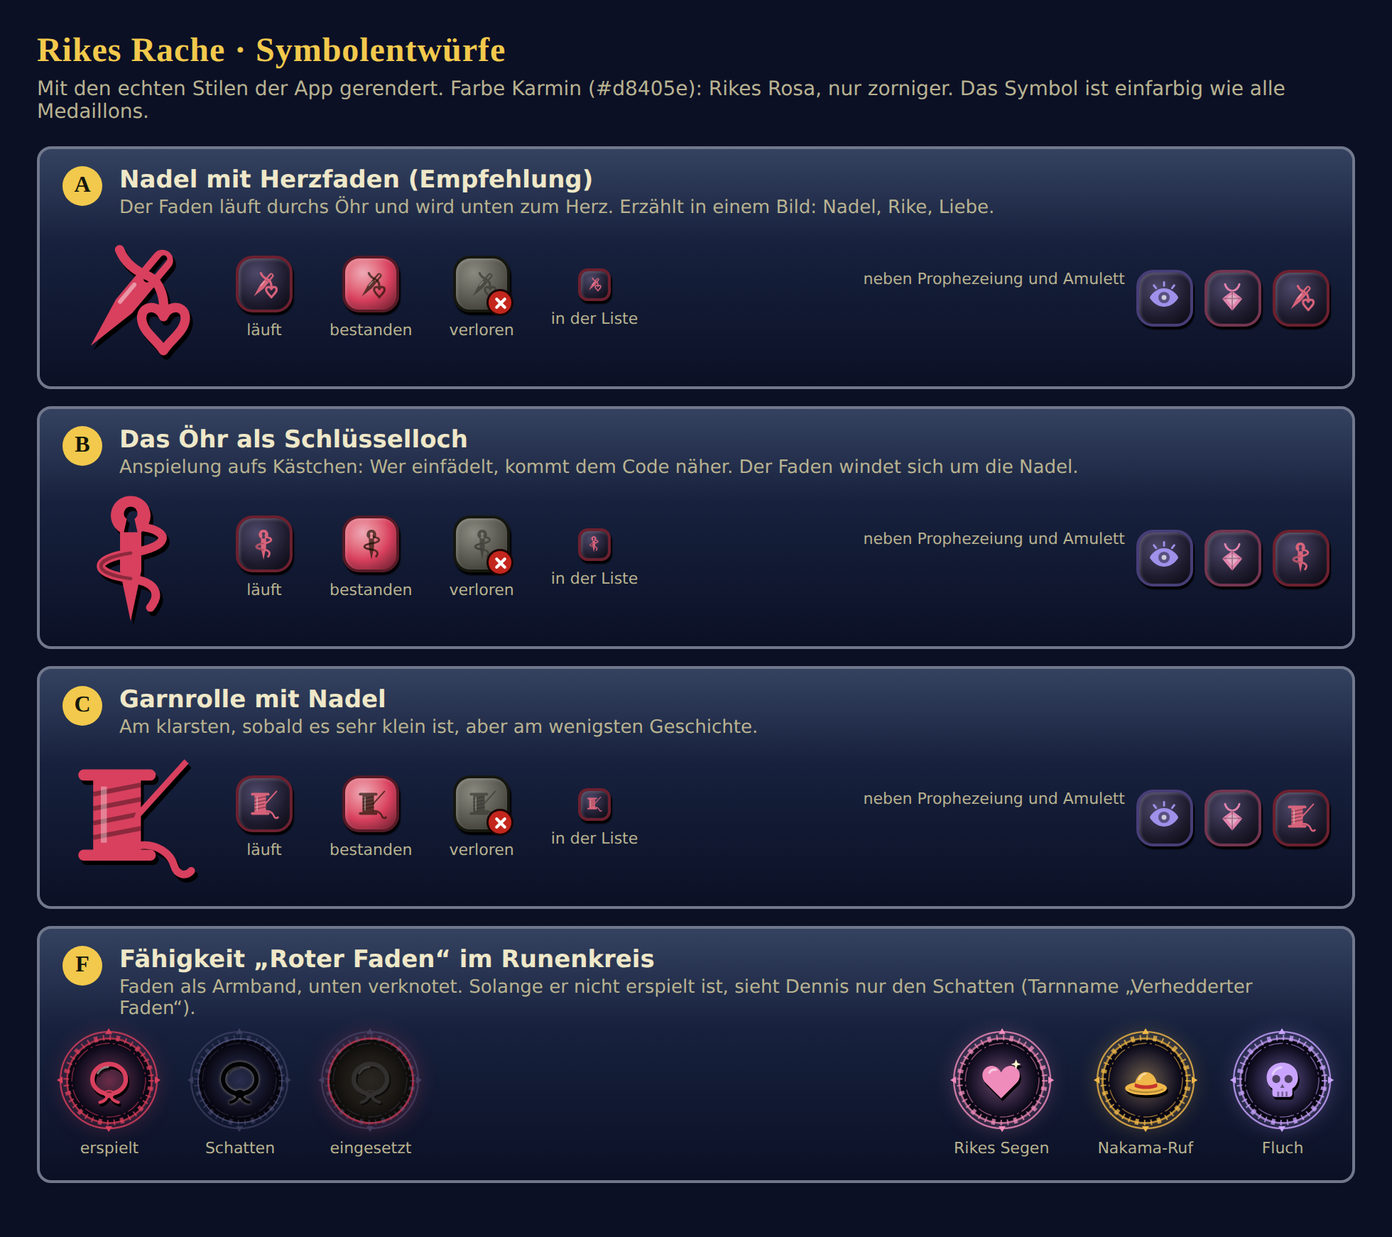
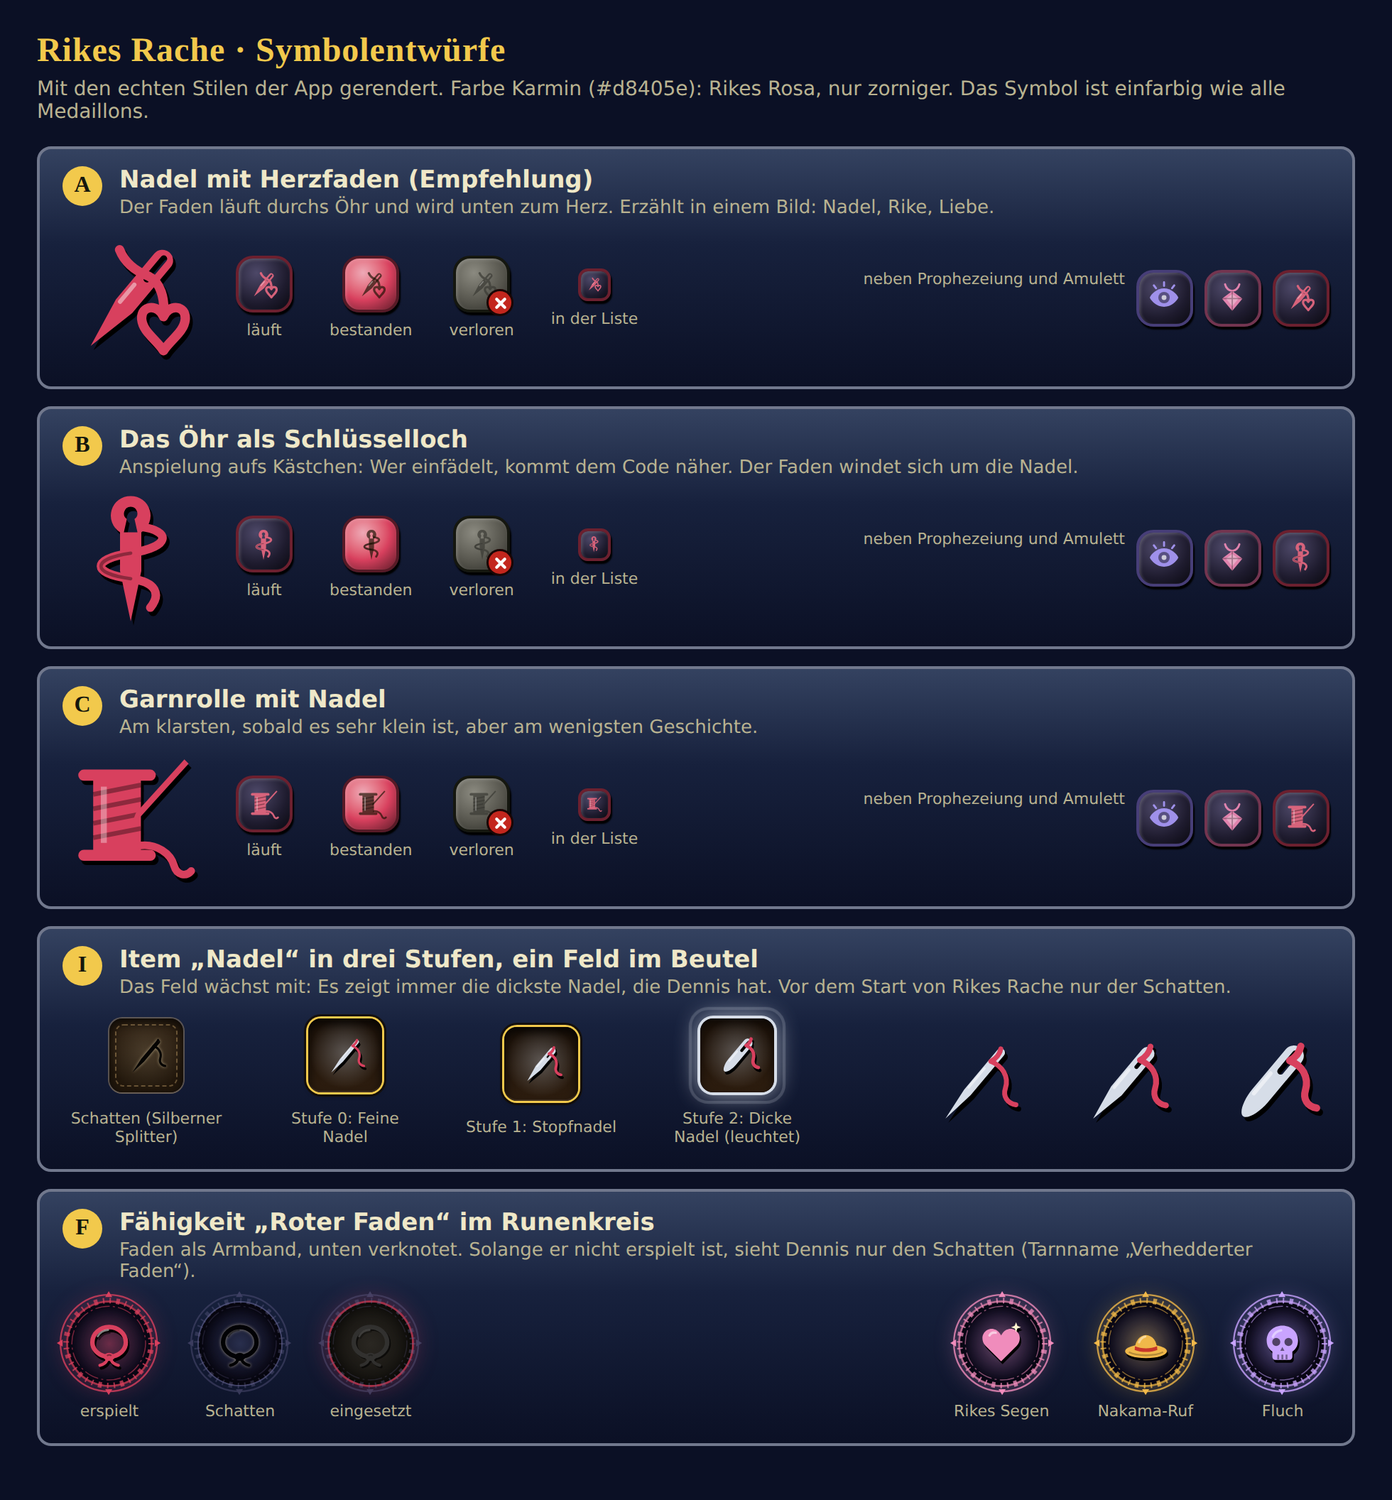
Rikes Rache: Name und Symbol A entschieden, Nadel als Item in drei Stufen
Feine Nadel mit dem Start, Stopfnadel aus dem Wirbel der Götter, dicke Nadel
vom Deku-Baum. Ein Feld im Beutel, die dickste zählt. Symbole der drei Stufen
in entwuerfe/rikes-rache/. Noch nicht gebaut.

Claude-Session: https://claude.ai/code/session_016MoboqD67wRk2b1KC5fNee

diff --git a/entwuerfe/rikes-rache/symbole.svg.html b/entwuerfe/rikes-rache/symbole.svg.html
@@ -1,4 +1,4 @@
-<!-- Rikes Rache, Symbolentwürfe vom 29.09. (noch nicht in der App). Zum Einbauen in den Sprite-Block von app/index.html kopieren. Vorschau: symbole.png -->
+<!-- Rikes Rache, Symbolentwürfe vom 29.09. (noch nicht in der App). Entschieden: A (i-nadel) als Quest-Symbol. Zum Einbauen in den Sprite-Block von app/index.html kopieren. Vorschau: symbole.png -->
     <!-- Rikes Rache (Entwurf 29.09.): Quest-Symbol A, Nadel mit Faden, der unten ein Herz bildet -->
     <symbol id="i-nadel" viewBox="0 0 32 32">
       <g transform="rotate(40 16 16)">
@@ -28,4 +28,26 @@
       <ellipse cx="16" cy="25" rx="3.6" ry="2.7" fill="currentColor"/>
       <path d="M14.6 24.2c1-.8 2-.8 2.9 0" fill="none" stroke="rgba(0,0,0,.4)" stroke-width="1"/>
       <path d="M14.6 27.2c-.8 1.8-2.6 3-4.8 3.4M17.4 27.2c.8 1.8 2.6 3 4.8 3.4" fill="none" stroke="currentColor" stroke-width="2" stroke-linecap="round"/>
+    </symbol>
+    <!-- Item Nadel in drei Stufen (ein Feld im Beutel): Das Öhr wird mit jeder Stufe größer, der rote Faden steckt schon drin -->
+    <symbol id="i-nadel-fein" viewBox="0 0 32 32">
+      <g transform="rotate(40 16 16)">
+        <path fill="currentColor" fill-rule="evenodd" d="M14.7 4.2a1.3 1.3 0 0 1 2.6 0v15.8L16 30.4l-1.3-10.4ZM15.7 3.9v4a.3.3 0 0 0 .6 0v-4a.3.3 0 0 0-.6 0Z"/>
+        <path d="M15.3 11v7.6" stroke="rgba(255,255,255,.5)" stroke-width=".7" stroke-linecap="round"/>
+      </g>
+      <path d="M20.6 9.6c1.4-.7 2.6-2 3-3.8M20.6 9.6c3.4 1.4 5.6 4.6 4.4 8.2-.8 2.4.6 4.6 3.2 5" fill="none" stroke="#d8405e" stroke-width="1.5" stroke-linecap="round"/>
+    </symbol>
+    <symbol id="i-nadel-stopf" viewBox="0 0 32 32">
+      <g transform="rotate(40 16 16)">
+        <path fill="currentColor" fill-rule="evenodd" d="M13.9 4.6a2.1 2.1 0 0 1 4.2 0v14.8L16 30.4l-2.1-11ZM15.4 4.1v5.8a.6.6 0 0 0 1.2 0V4.1a.6.6 0 0 0-1.2 0Z"/>
+        <path d="M14.8 12v7" stroke="rgba(255,255,255,.5)" stroke-width="1" stroke-linecap="round"/>
+      </g>
+      <path d="M21 9.2c1.5-.8 2.8-2.2 3.2-4.1M21 9.2c3.6 1.4 5.8 4.8 4.6 8.6-.8 2.5.6 4.8 3.3 5.2" fill="none" stroke="#d8405e" stroke-width="1.8" stroke-linecap="round"/>
+    </symbol>
+    <symbol id="i-nadel-dick" viewBox="0 0 32 32">
+      <g transform="rotate(40 16 16)">
+        <path fill="currentColor" fill-rule="evenodd" d="M12.9 5.4a3.1 3.1 0 0 1 6.2 0v15.8c0 4.2-1.5 8.2-3.1 8.2s-3.1-4-3.1-8.2ZM15 4.6v7a1 1 0 0 0 2 0v-7a1 1 0 0 0-2 0Z"/>
+        <path d="M14.1 14v8" stroke="rgba(255,255,255,.5)" stroke-width="1.2" stroke-linecap="round"/>
+      </g>
+      <path d="M21.6 9.4c1.6-.9 3-2.4 3.4-4.4M21.6 9.4c3.8 1.4 6 5 4.8 9-.8 2.6.6 5 3.4 5.4" fill="none" stroke="#d8405e" stroke-width="2.2" stroke-linecap="round"/>
     </symbol>

diff --git a/07-spiele-und-items.md b/07-spiele-und-items.md
@@ -23,7 +23,7 @@ Stand 25.09.2026, Namen und Aussichtspunkt geändert am 28.09. Sammelt, was der 
 | 13 | ~~Rast der Ahnen~~ | **Gestrichen** (25.09.). Die Hütte ist nur noch Abrechnung und Öffnen des Kästchens. | |
 | 14 | **Wirbel der Götter** (Beyblade) | Name steht (25.09.). Duell gegeneinander, nur zwei Kreisel. Eigenes Spiel, nicht der Showdown. | Gegen wen, Best of 3, wo im Ablauf |
 | 15 | **Rikes Amulett** (Knobelspiel, Brosche) | Zeitquest: Die Brosche ist versteckt, Dennis muss sie in einer Frist finden. Dann darf er den ganzen Tag über versuchen, sie zusammenzusetzen. Gelöst = Belohnung, eher Packs. | Versteck, Frist, Anzahl Packs |
-| 16 | **Rikes Rache** (Nadel einfädeln) | **Vorschlag (29.09.), noch nicht gebaut:** laufende Quest, an jeder Station ein Stich auf Zeit, Details im Abschnitt „Vorschlag: Rikes Rache“ unten. | Name, Zeit, Belohnung bestätigen |
+| 16 | **Rikes Rache** (Nadel einfädeln) | **Name und Symbol stehen (29.09.), noch nicht gebaut:** laufende Quest, an jeder Station ein Stich auf Zeit. Die Nadel ist ein Item in drei Stufen (I9 bis I11). Details im Abschnitt „Vorschlag: Rikes Rache“ unten. | Zeit, Belohnung, woher die Nadeln kommen |
 
 ## Beobachtungen
 
@@ -45,6 +45,9 @@ Stand 25.09.2026, Namen und Aussichtspunkt geändert am 28.09. Sammelt, was der 
 | I6 | **Stich** (Schwert aus Herr der Ringe, war F2, 25.09.) | 12 | Ein Schwert mehr, also ein Versuch mehr |
 | I7 | **Wasserspritze** (28.09.) | 2 | Einziges Startitem: Der Heilige Beutel des Helden entpuppt sich beim ersten Besuch der Ausrüstung als Spritze, im selben Feld, und die Fee erklärt die Stufen |
 | I8 | **Kleine Wasserpistole** (28.09.) | 2 | Sieg im Podrennen, löst die Spritze ab |
+| I9 | **Feine Nadel** (Vorschlag 29.09.) | 16 | Stufe 0, kleinstes Öhr. Kommt mit dem Start von Rikes Rache |
+| I10 | **Stopfnadel** (Vorschlag 29.09.) | 16 | Stufe 1, Sieg im Wirbel der Götter, löst die feine Nadel ab |
+| I11 | **Dicke Nadel** (Vorschlag 29.09.) | 16 | Stufe 2, größtes Öhr, Sieg bei den Klingen des Deku-Baums, löst beide ab |
 
 ## Fähigkeiten (Magie, kein physischer Gegenstand nötig)
 
@@ -121,6 +124,9 @@ Sechs Hauptquests = sechs Medaillons (28.09.): Rikes Tagebuch (Wasser, blau), Wi
 | I4 | Gepanzerte Karten (+2 Karten) | Federn der Eule |
 | I5 | Götterkreisel (üben, erste Wahl) | Kern der Goronen |
 | I6 | Stich | Verrostete Klinge |
+| I9 | Feine Nadel (Vorschlag, Stufe 0) | Silberner Splitter |
+| I10 | Stopfnadel (Vorschlag, Stufe 1) | Eisendorn |
+| I11 | Dicke Nadel (Vorschlag, Stufe 2) | Uralter Dorn |
 | F1 | Fluch (mehrfach, einmalig) | Versiegeltes Pergament |
 | F3 | Schild des Bundes (einmalig) | Zerbrochenes Wappen |
 | F5 | Nakama-Ruf (einmalig) | Zerschlissener Hut |
@@ -175,21 +181,31 @@ Regel für alle Stufen gleich: ein Tank, gleicher Abstand. Vorher testen, wie vi
 
 Wunsch des Nutzers (29.09.): Rike hat im Tagebuch auf „Was kannst du laut Rike überhaupt nicht?“ geantwortet: Nadel einfädeln. Daraus wird ein Spiel: Faden durchs Nadelöhr, auf Zeit, mehrmals an verschiedenen Stellen. `app/config.js` ist noch unverändert.
 
-**Name: Rikes Rache** (Empfehlung). Kurz, mit Stabreim, die Gruppe kann es rufen, und es passt zu Rikes Tagebuch, Rikes Amulett und Rikes Segen. Die Geschichte dazu: Rike hat verraten, was Dennis überhaupt nicht kann, jetzt nimmt sie Rache. Alternativen: „Der rote Faden“ (Doppelsinn, siehe unten), „Das Nadelöhr“. Nicht „Rikes Revanche“, weil Revanche schon das Wiederholen verlorener Spiele im Showdown heißt.
+**Name: Rikes Rache** (entschieden 29.09.). Kurz, mit Stabreim, die Gruppe kann es rufen, und es passt zu Rikes Tagebuch, Rikes Amulett und Rikes Segen. Die Geschichte dazu: Rike hat verraten, was Dennis überhaupt nicht kann, jetzt nimmt sie Rache. Alternativen: „Der rote Faden“ (Doppelsinn, siehe unten), „Das Nadelöhr“. Nicht „Rikes Revanche“, weil Revanche schon das Wiederholen verlorener Spiele im Showdown heißt.
 
 **Art und Platz:** eine laufende Quest wie die Prophezeiung, mit einem Zähler „Stiche“ (höchstens 5). Laufend, weil sie an mehreren Stellen stattfindet. So bleiben die feste Reihe der neun Quests, der Nebel und die Summe von 20 Packs unberührt. Bei Dennis steht sie in der Kammer der Sidequests unter Prophezeiung und Amulett.
 
 **Start:** Der Quest Master startet sie, sobald Dennis das Tagebuch besiegelt hat. Dennis sieht NEUE QUEST, die Fee sagt: „Rike hat verraten, was du überhaupt nicht kannst. Jetzt nimmt sie Rache.“ So bekommt Rikes erste Antwort einen zweiten Auftritt. Text auf der Quest-Karte: „Rike hat verraten, was du überhaupt nicht kannst. An jeder Station wartet eine Nadel: Fädle ein, bevor die Zeit abläuft.“
 
-**Fünf Stiche, einer pro Station.** Die Karte hat genau fünf Stationen bis zum Gipfel. Schwerer wird es über die Nadel und einen Dreh je Station:
+**Fünf Stiche, einer pro Station.** Die Karte hat genau fünf Stationen bis zum Gipfel. Der Stich kommt jeweils am Ende der Station, nach ihren Quests. Schwerer wird es über einen Dreh je Station, leichter über die Nadel (Item, siehe unten):
 
-| Stich | Station | Nadel | Dreh |
+| Stich | Station | Dreh |
+|---|---|---|
+| 1 | Zug (Freitag) | im fahrenden Zug. Sitzt Dennis allein im Zug, filmt er sich und schickt das Video an den Bund |
+| 2 | Wiese | einer aus dem Bund hält die Nadel, Dennis wählt, wem er vertraut |
+| 3 | Wald | direkt nach 15 Kniebeugen, mit zitternden Händen |
+| 4 | Aussicht | auf einem Bein, mit Blick ins Tal (mit Abstand zur Kante) |
+| 5 | Gipfel | vor dem Tor, der Bund zählt die letzten zehn Sekunden laut herunter |
+
+**Die Nadel als Item (Wunsch des Nutzers, 29.09.):** Die Nadel ist ein Item in drei Stufen, wie die Wasserwaffen. Je dicker, desto größer das Öhr und desto leichter der Stich. Bei jedem Stich zählt die dickste Nadel, die Dennis hat, die dünneren sind abgelöst. Im Beutel ist das **ein Feld, das mitwächst** (wie der Beutel, der sich als Spritze entpuppt): Es zeigt immer die dickste Nadel. Vor dem Start von Rikes Rache sieht Dennis dort nur den Schatten.
+
+| Stufe | Nadel | Tarnname | Woher |
 |---|---|---|---|
-| 1 | Zug (Freitag) | dicke Stopfnadel, großes Öhr | im fahrenden Zug. Sitzt Dennis allein im Zug, filmt er sich und schickt das Video an den Bund |
-| 2 | Wiese | Stopfnadel | einer aus dem Bund hält die Nadel, Dennis wählt, wem er vertraut |
-| 3 | Wald | Nähnadel | direkt nach 15 Kniebeugen, mit zitternden Händen |
-| 4 | Aussicht | Nähnadel | auf einem Bein, mit Blick ins Tal (mit Abstand zur Kante) |
-| 5 | Gipfel | feinste Nadel | vor dem Tor, der Bund zählt die letzten zehn Sekunden laut herunter |
+| 0 | Feine Nadel, winziges Öhr (I9) | Silberner Splitter | kommt mit dem Start von Rikes Rache, Rike hat sie ausgesucht |
+| 1 | Stopfnadel, mittleres Öhr (I10) | Eisendorn | Sieg im Wirbel der Götter (Wiese), hilft ab Stich 2 |
+| 2 | Dicke Nadel (Woll- oder Sticknadel), großes Öhr, stumpfe Spitze (I11) | Uralter Dorn | Sieg bei den Klingen des Deku-Baums (Wald), hilft ab Stich 3 |
+
+Warum Wirbel und Deku-Baum: Der Wirbel bringt bisher ein Item und keine Ziffer, der Deku-Baum nur die Ziffer. Mit der Nadel bringen alle Hauptquests außer dem Bund zwei Dinge, und jede Nadel kommt vor dem nächsten Stich. Wer beide verliert, fädelt den ganzen Tag mit der feinen Nadel: Das ist Rikes Rache. Alternative: Dennis kauft eine Stufe dicker für 1 Pack (Schnellbuchung des Quest Masters, das kann die App schon). Die Nadel, die Dennis in der App hat, bekommt er auch in echt in die Hand.
 
 **Zeit, geknüpft an Rikes Tagebuch:** Pro Stich hat Dennis 10 Sekunden für jede Antwort, die er im Tagebuch über Rike richtig hatte, mindestens 20 Sekunden (5 Treffer = 50 Sekunden). Je besser er sie kennt, desto gnädiger ist ihre Rache. Die Zeit steht nach dem Tagebuch fest und bleibt den ganzen Tag gleich. Alternative ohne Kopplung: 60, 50, 40, 30, 20 Sekunden.
 
@@ -199,14 +215,14 @@ Wunsch des Nutzers (29.09.): Rike hat im Tagebuch auf „Was kannst du laut Rike
 
 **Der rote Faden (Bezug zu Rike):** Nach einer Legende aus Japan und China verbindet ein unsichtbarer roter Faden zwei Menschen, die füreinander bestimmt sind. Er kann sich dehnen und verheddern, aber nie reißen. Darum ist der Faden rot, und jeder Faden, den Dennis durchbringt, wird ihm ums Handgelenk geknotet. Am Abend trägt er ein rotes Armband mit so vielen Knoten, wie er Stiche geschafft hat. Rike könnte das Gegenstück bekommen. Nebenbei heißt der Zähler „Stiche“, und vielleicht trägt Dennis dann schon das Schwert Stich.
 
-**Symbol:** Nadel mit Herzfaden: Der Faden läuft durchs Öhr und wird unten zum Herz. Farbe Karmin `#d8405e`, Rikes Rosa, nur zorniger. Die Fähigkeit Roter Faden ist ein Faden als Armband, unten verknotet. Vorschau mit den echten Stilen der App in `entwuerfe/rikes-rache/symbole.png` (dort auch Entwurf B, das Öhr als Schlüsselloch, und Entwurf C, die Garnrolle), die Symbole zum Einbauen in `entwuerfe/rikes-rache/symbole.svg.html`.
+**Symbol (entschieden 29.09.): A, Nadel mit Herzfaden.** Der Faden läuft durchs Öhr und wird unten zum Herz. Farbe Karmin `#d8405e`, Rikes Rosa, nur zorniger. Die Fähigkeit Roter Faden ist ein Faden als Armband, unten verknotet. Vorschau mit den echten Stilen der App in `entwuerfe/rikes-rache/symbole.png` (dort auch Entwurf B, das Öhr als Schlüsselloch, und Entwurf C, die Garnrolle), die Symbole zum Einbauen in `entwuerfe/rikes-rache/symbole.svg.html`. Die Nadeln sind silbern, der rote Faden steckt schon im Öhr, und das Öhr wird mit jeder Stufe größer.
 
 **Momente in der App:** NEUE QUEST beim Start. Bei jedem Stich „EINGEFÄDELT“ mit „2 von 5 Stichen“ (statt PROPHEZEIUNG ERFÜLLT). Beim dritten Stich der Fund des Roten Fadens. Verloren: „RIKE HATTE RECHT“. Schön wären zwei kurze Sprachnachrichten von Rike, eine für den Sieg („Na gut, ich nehm's zurück.“) und eine für die Niederlage („Hab ich's nicht gesagt?“).
 
 **Nebenbei:** Die feinste Nadel taugt auch als Bußprüfung am Tor zum Gipfel (offener Punkt 5 in `CLAUDE.md`).
 
-**Material:** Nadelset mit Stopf- und Nähnadeln (Drogerie, etwa 2 bis 4 €), rotes Nähgarn oder Stickgarn, kleine Schere, pro Station ein vorgeschnittener Faden plus Ersatz, Stoppuhr am Handy. Vorher selbst testen, wie lange die feinste Nadel mit Dreh dauert.
+**Material:** Nadelset mit feinen Nähnadeln, Stopfnadeln und dicken Woll- oder Sticknadeln (Drogerie, etwa 2 bis 4 €), rotes Nähgarn oder Stickgarn, kleine Schere, pro Station ein vorgeschnittener Faden plus Ersatz, Stoppuhr am Handy. Vorher selbst testen, wie lange jede der drei Nadeln mit Dreh dauert. Die feine sollte knapp scheitern, sonst ist die dicke nichts wert.
 
-**Umsetzung, sobald freigegeben:** In `config.js` eine laufende Quest `rache` (nr 16, Zähler „Stiche“ mit max 5, Sieg: Roter Faden, Niederlage 0 Packs) und ein Item `roter_faden` (F7, Fähigkeit, einmalig), zwei Sprites in `index.html`. Neu im Code: ein Zähler mit Ziel (bestanden bei 3, heute kann eine Zähler-Quest nur beendet werden), der Moment-Text je Quest statt fest PROPHEZEIUNG ERFÜLLT, die Duell-Wahl des Roten Fadens in `showdownDuelle()` und ein fünfter Runenkreis in der Ausrüstung (heute 2 mal 2, danach mit `tests/geraete.mjs` prüfen). Die Packs ändern sich nicht, `tests/balance.js` bleibt gleich.
+**Umsetzung, sobald freigegeben:** In `config.js` eine laufende Quest `rache` (nr 16, Zähler „Stiche“ mit max 5, Sieg: Roter Faden, Niederlage 0 Packs) und ein Item `roter_faden` (F7, Fähigkeit, einmalig), die Nadeln `nadel_fein`, `nadel_stopf` und `nadel_dick` (mit `ersetzt` wie die Wasserwaffen), die Stopfnadel beim Sieg im Wirbel, die dicke Nadel beim Sieg am Deku-Baum, fünf Sprites in `index.html`. Neu im Code: Items beim Start einer laufenden Quest (die feine Nadel), ein Feld für mehrere Stufen im Beutel, ein Zähler mit Ziel (bestanden bei 3, heute kann eine Zähler-Quest nur beendet werden), der Moment-Text je Quest statt fest PROPHEZEIUNG ERFÜLLT, die Duell-Wahl des Roten Fadens in `showdownDuelle()` und ein fünfter Runenkreis in der Ausrüstung (heute 2 mal 2, danach mit `tests/geraete.mjs` prüfen). Die Packs ändern sich nicht, `tests/balance.js` bleibt gleich.
 
-**Offen:** Name, Zeit an das Tagebuch knüpfen oder feste Zeiten, Belohnung Roter Faden, Stich 1 im Zug per Video oder erst bei der Ankunft in München, Armband und Gegenstück für Rike, Sprachnachrichten.
+**Offen:** Zeit an das Tagebuch knüpfen oder feste Zeiten, woher die dickeren Nadeln kommen (Wirbel und Deku-Baum oder für Packs), Belohnung Roter Faden, Stich 1 im Zug per Video oder erst bei der Ankunft in München, Armband und Gegenstück für Rike, Sprachnachrichten.

diff --git a/CLAUDE.md b/CLAUDE.md
@@ -29,7 +29,7 @@ JGA-Wochenende für Dennis, 2. bis 4. Oktober 2026, München und Wanderung am Te
 - **28.09. (sechster Teil, gleicher Branch):** **Alles zurücksetzen** im Admin setzt einen Zeitstempel `neustart` im Spiel (`engine.js`), löscht Dennis' Einträge und seine Tagebuch-Antworten auf einen Schlag (vorher blieben die Antworten, darum ließ sich das Tagebuch nach einem Zurücksetzen nicht mehr ausfüllen). Dennis' Handy erkennt den neuen Zeitstempel, zeigt ein einziges Fenster „NEUER ANFANG“ statt einem je zurückgenommenem Teil, vergisst alles vom alten Spiel (Prolog, Beutel, Hinweise, Funde, GPS, Kopien von Einträgen und Tagebuch, auch Ungesendetes, `kanal.vergessen()` in `store.js`) und lädt neu. Die App muss dafür nicht offen sein, sonst passiert es still beim nächsten Öffnen. Rückgängig holt alles zurück, still. Rücknahmen, die in Teilen ankommen, sammelt Dennis' Seite 0,7 s und zeigt sie in einem Fenster. Karte schneller beim ersten Öffnen: goldener Weg als eigene Ebene ohne SVG-Filter, Dennis läuft per transform mit kleinem Avatar (`avatar-klein.webp`), Effekte aus während der Drehung, Karte wird hinter dem Titelbild vorgewärmt (auf einem echten iPhone noch nicht gemessen). Test `tests/neustart.mjs`.
 - **29.09. (gleicher Branch):** Prolog Tafel 2 heißt „Willkommen in The Legend of Dennis“ (Titel vom Startbild, die Fee: „Willkommen in deiner eigenen Legende!“). **Packs geklärt:** 20 Packs über den Tag (Leiste oben, der Bund hütet sie), alle Siege zusammen genau 20 (Wirbel +2, Bund +5, `engine.test.js` prüft die Summe), kein Sieg verpufft mehr. Das Kästchen am Ende (nur mit Code zu öffnen) enthält 10 Packs als **Überraschung**, die App erwähnt sie nicht: Prolog Tafel 4 „Der Bund hütet 20 Packs“, Tafel 5 „Die vier Ziffern öffnen am Ende ein verschlossenes Kästchen. Was darin liegt, verrät dir niemand.“, die Stationstafel an der Hütte zeigt nur „Verschlossen, noch N Ziffern“. Der Satz „Alle Packs im Kästchen gehören schon dir“ ist weg.
 - **29.09. (zweiter Teil, gleicher Branch):** **Finale** nach der Prüfung des Bundes (`08-erlebnis-plan.md` 3.10, Wunsch des Nutzers): Siegbildschirm (Triforce, „DIE LEGENDE IST VOLLBRACHT“ bzw. „DER BUND HAT GESIEGT“, Packs, Code), dann eine Geschichte über Rike und Dennis als Laufschrift wie bei Star Wars („Vor langer Zeit, in einem Tal gar nicht so weit entfernt …“, Titel fliegt in die Tiefe, „EPISODE I · DIE LETZTEN PRÜFUNGEN“, 48 s), danach der Abspann (45 s): Held Dennis, Fee gesandt von Rike, Quest Master Bene, der Bund Bene und Fabio, die Prüfungen des Tages mit Ergebnis, die Beute, der Tag in Zahlen, Drehort, besonderer Dank an Rike, THE END mit „Fortsetzung folgt … Episode II · Die Hochzeit“, Code und „Öffne jetzt das Kästchen“. Eigene Musik (`THEMA` in `app.js`, keine Originalmusik). Einmal pro Handy von selbst (`dq-abspann-v1`), danach über das Code-Fenster (ABSPANN). ÜBERSPRINGEN springt einen Teil weiter. Rückgängig beim Bund schließt es still. Alle Texte und Namen in `config.js` (`abspann`). Test `tests/abspann.mjs`.
-- **29.09. (dritter Teil, Vorschlag, noch nicht gebaut):** Neues Spiel **Rikes Rache** (`07-spiele-und-items.md` Nr. 16 und Abschnitt „Vorschlag: Rikes Rache“). Rike hat im Tagebuch auf Frage 1 geantwortet, dass Dennis keine Nadel einfädeln kann. Laufende Quest, startet nach dem Tagebuch, fünf Stiche (einer pro Station bis zum Gipfel), Zeit pro Stich 10 s je Treffer im Tagebuch, bestanden ab 3, bringt die Fähigkeit **Roter Faden** (F7, im Showdown ein Duell selbst wählen), Niederlage 0 Packs. Roter Faden als Armband für Dennis. Symbolentwürfe in `entwuerfe/rikes-rache/`. Wartet auf Freigabe.
+- **29.09. (dritter Teil, Name und Symbol entschieden, noch nicht gebaut):** Neues Spiel **Rikes Rache** (`07-spiele-und-items.md` Nr. 16 und Abschnitt „Vorschlag: Rikes Rache“). Rike hat im Tagebuch auf Frage 1 geantwortet, dass Dennis keine Nadel einfädeln kann. Laufende Quest, startet nach dem Tagebuch, fünf Stiche (einer pro Station bis zum Gipfel), Zeit pro Stich 10 s je Treffer im Tagebuch, bestanden ab 3, bringt die Fähigkeit **Roter Faden** (F7, im Showdown ein Duell selbst wählen), Niederlage 0 Packs. Roter Faden als Armband für Dennis. Symbol A (Nadel mit Herzfaden, Karmin) entschieden. Wunsch des Nutzers: Die Nadel ist ein Item in drei Stufen (fein, Stopfnadel, dick, ein Feld im Beutel, die dickste zählt), Vorschlag: feine Nadel mit dem Start, Stopfnadel aus dem Wirbel, dicke Nadel vom Deku-Baum. Symbolentwürfe in `entwuerfe/rikes-rache/`. Wartet auf Freigabe zum Bauen.
 - Der Name der Braut ist **Rike** (ohne e).
 
 ## Wo was liegt
@@ -77,4 +77,4 @@ Der Nutzer will es **einfach und in sich geschlossen** halten und schrittweise a
 8. GPS-Stellen der Stationen in `config.karte.stationen` sind aus der Karte geschätzt (Wiese: Bank am Anstieg, Wald: nach 1 km, Aussicht: Wiesen oben mit Seeblick). Am Samstag dort nachtragen, wo der Quest Master wirklich aufbaut.
 9. Erlebnis-Plan `08-erlebnis-plan.md`: Entschieden am 26.09.: Overdrive B mit A, Finale mit Rikes Botschaft (achte Aufnahme neben den sieben Log-Buch-Antworten, `app/assets/botschaft.m4a`), Vorhersagen in der App, die Fee als Rikes Botin, visuelles Remaster. Offen: Name der Fee, Trostzeile, Item-Fund-Bild, Schrift, Zeitplan. Stilprobe gebaut am 26.09. und live unter `docarina.vercel.app/stilprobe.html`, wartet auf Freigabe durch den Nutzer. Abschnitt 11 (Aufgabenteilung, weniger Text) ist live. Danach Grunddesign nach `styles.css` übertragen und Stufe 1.
 10. Material vor dem Spieltag testen (`07`, Abschnitt Material und Kosten): Bleiben die Schwerter im Baum stecken, fährt das RC-Auto auf dem Untergrund (Gras eher nicht), Arena für die Kreisel, Knobelspiele selbst lösen und Zeit stoppen, Tanks der drei Wasserwaffen messen (die Spritze soll im Auge des Jägers knapp scheitern).
-11. Rikes Rache freigeben (`07`, Abschnitt „Vorschlag: Rikes Rache“): Name, Zeit, Belohnung, Stich 1 im Zug, Nadelset und rotes Garn kaufen.
+11. Rikes Rache freigeben (`07`, Abschnitt „Vorschlag: Rikes Rache“): Name und Symbol stehen. Offen: Zeit, woher die Nadeln kommen, Belohnung, Stich 1 im Zug. Nadelset (fein, Stopf, dick) und rotes Garn kaufen.
